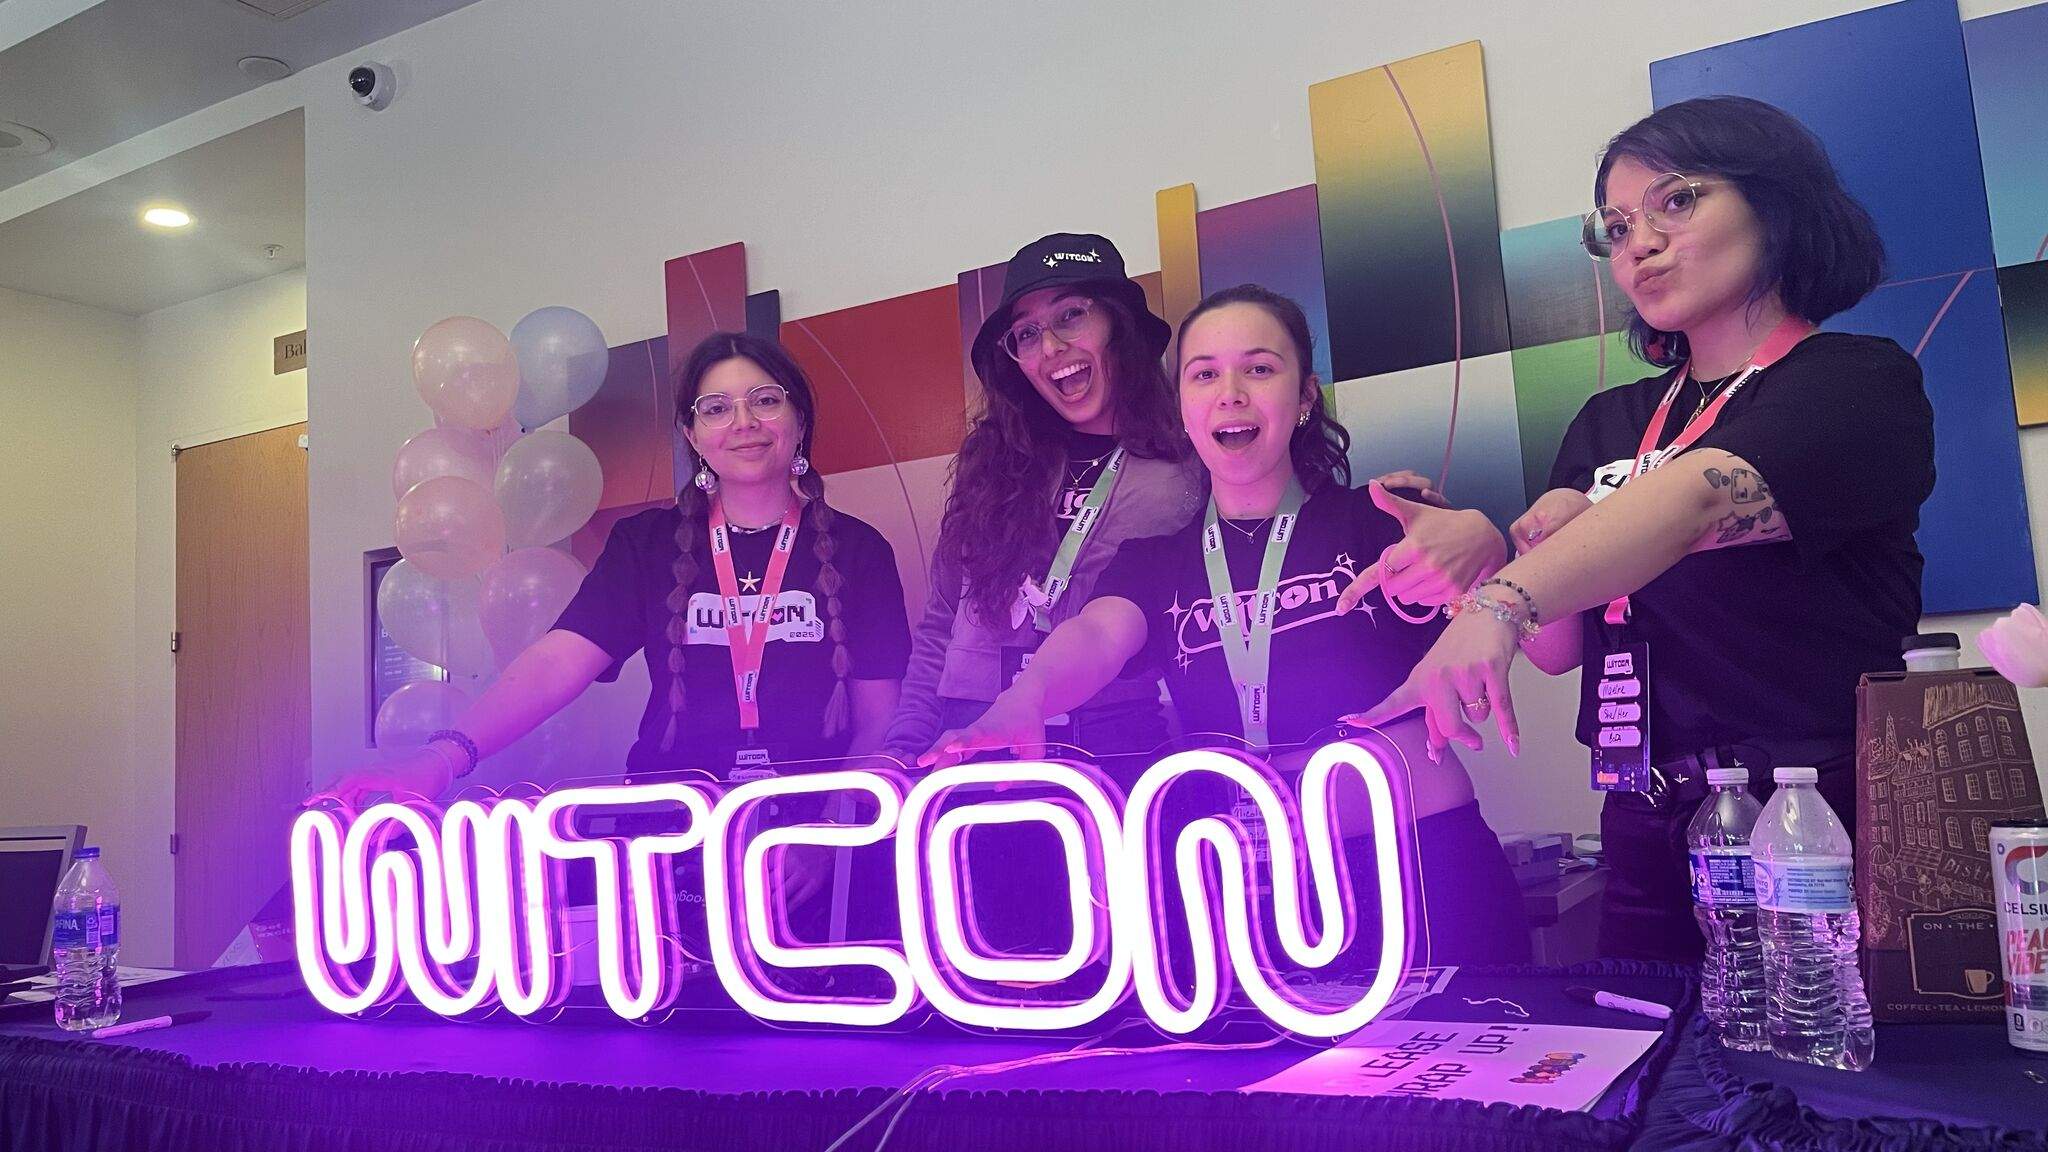
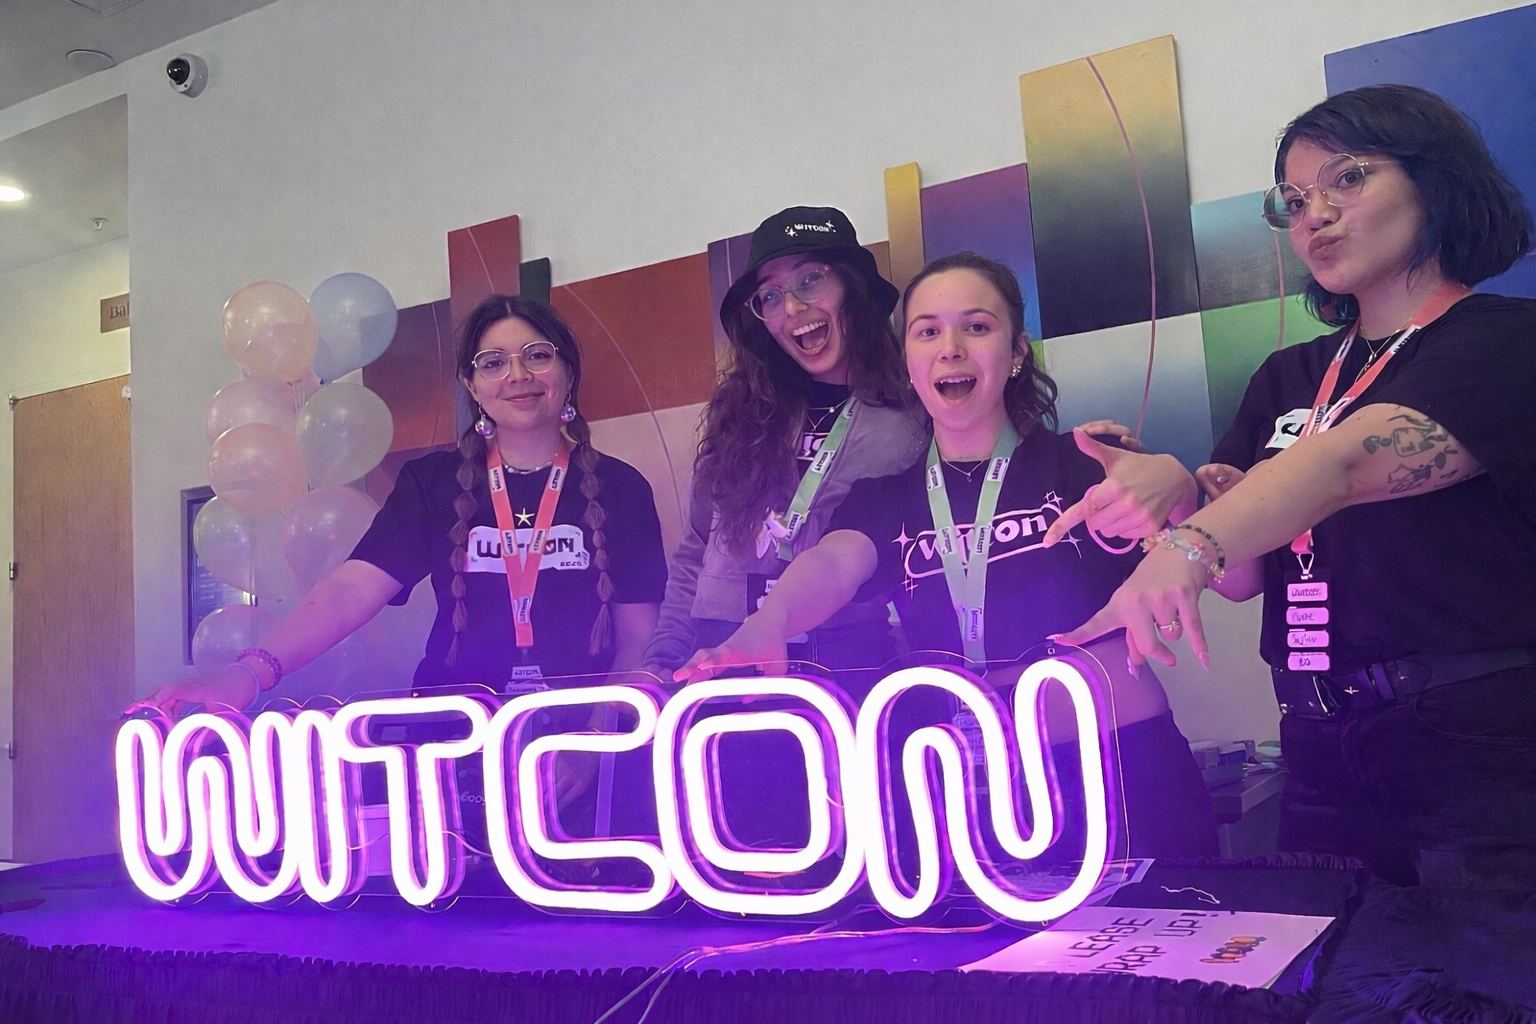
hero img

diff --git a/witcon-frontend/src/pages/Home.tsx b/witcon-frontend/src/pages/Home.tsx
@@ -13,7 +13,7 @@ export default function Home() {
         <Hero />
       </section>
 
-      <section id="timer" className="scroll-mt-24 -mt-10">
+      <section id="timer" className="scroll-mt-24 -mt-15">
         <Timer />
       </section>
 
@@ -25,7 +25,7 @@ export default function Home() {
         <Carousel />
       </section>
 
-      <section id="testimonials" className="scroll-mt-24 py-10 -mt-4">
+      <section id="testimonials" className="scroll-mt-24 py-10 -mt-8">
         <Testimonials />
       </section>
 
@@ -33,7 +33,7 @@ export default function Home() {
         <Teams />
       </section>
 
-      <section id="faq" className="scroll-mt-24 -mt-10">
+      <section id="faq" className="scroll-mt-24 -mt-20">
         <Faq />
       </section>
     </div>

diff --git a/witcon-frontend/src/components/Timer.tsx b/witcon-frontend/src/components/Timer.tsx
@@ -48,7 +48,7 @@ export default function CountdownTimer() {
   }, []);
 
   return (
-    <section className="grid place-content-center gap-y-7 mx-auto px-4">
+    <section className="grid place-content-center gap-y-7 mx-auto px-4 -mt-10">
       <div className="flex gap-x-2 py-4 justify-center items-start">
         {/* Days */}
         <div className="flex flex-col items-center">

diff --git a/witcon-frontend/src/sections/Hero.tsx b/witcon-frontend/src/sections/Hero.tsx
@@ -39,7 +39,7 @@ export default function Hero() {
         <div className="comic-image comic-image-pop">
           <img
             className="w-full h-auto object-cover max-h-96 mx-auto "
-            src="https://i.postimg.cc/4dBSz0x0/image.png"
+            src={hero}
             alt="WiTCON 2025 volunteer crew"
           />
 
